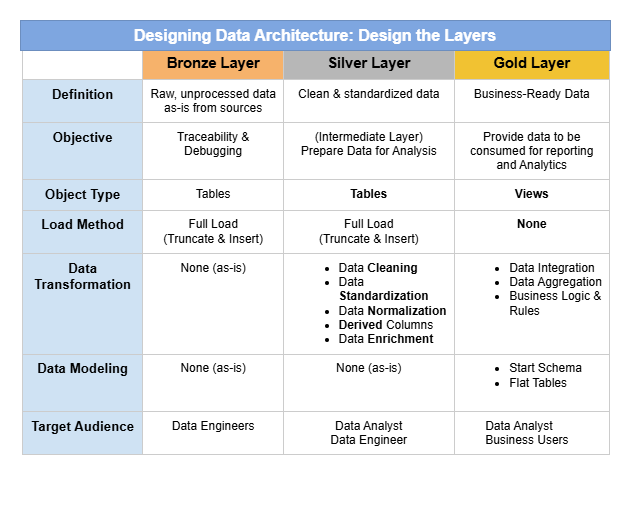
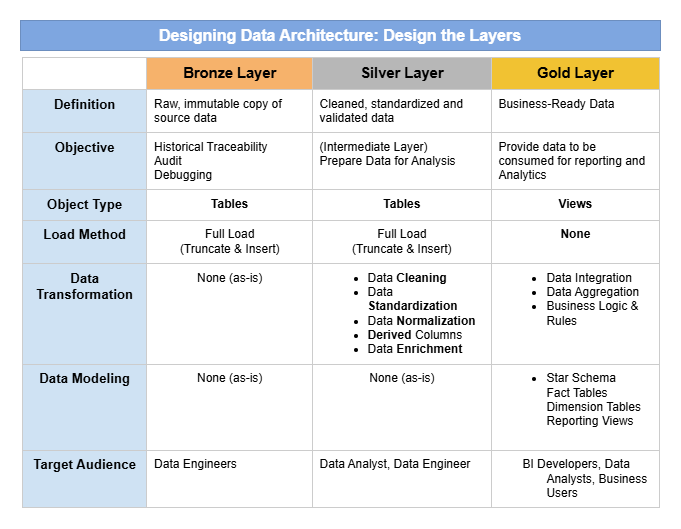
Update Doc

Changed region(s): [[0.0301, 0.0302, 0.9937, 0.9679], [0.271, 0.7864, 0.4216, 0.8166], [0.4216, 0.7561, 0.4818, 0.7864]]

diff --git a/docs/EDA_Findings.md b/docs/EDA_Findings.md
@@ -1,0 +1,16 @@
+# EDA - Exploratory Data Analysis
+
+Exploratory data analysis is the most important phase of the project. Up until now, we've been collecting and storing data. From here onward, we'll understand the data, its quality, its type and granularity .The quality of the Silver layer, Gold layer, and ultimately your Power BI dashboard will depend on the quality of this EDA.  
+
+EDA Framework:   
+   * Phase 1  : Dataset Overview
+   * Phase 2  : Data Types
+   * Phase 3  : Data Quality
+   * Phase 4  : Duplicate Analysis
+   * Phase 5  : Missing Values
+   * Phase 6  : Column-wise Analysis
+   * Phase 7  : Business Rule Validation
+   * Phase 8  : Relationship Analysis
+   * Phase 9 : Silver Layer Recommendations
+---
+
